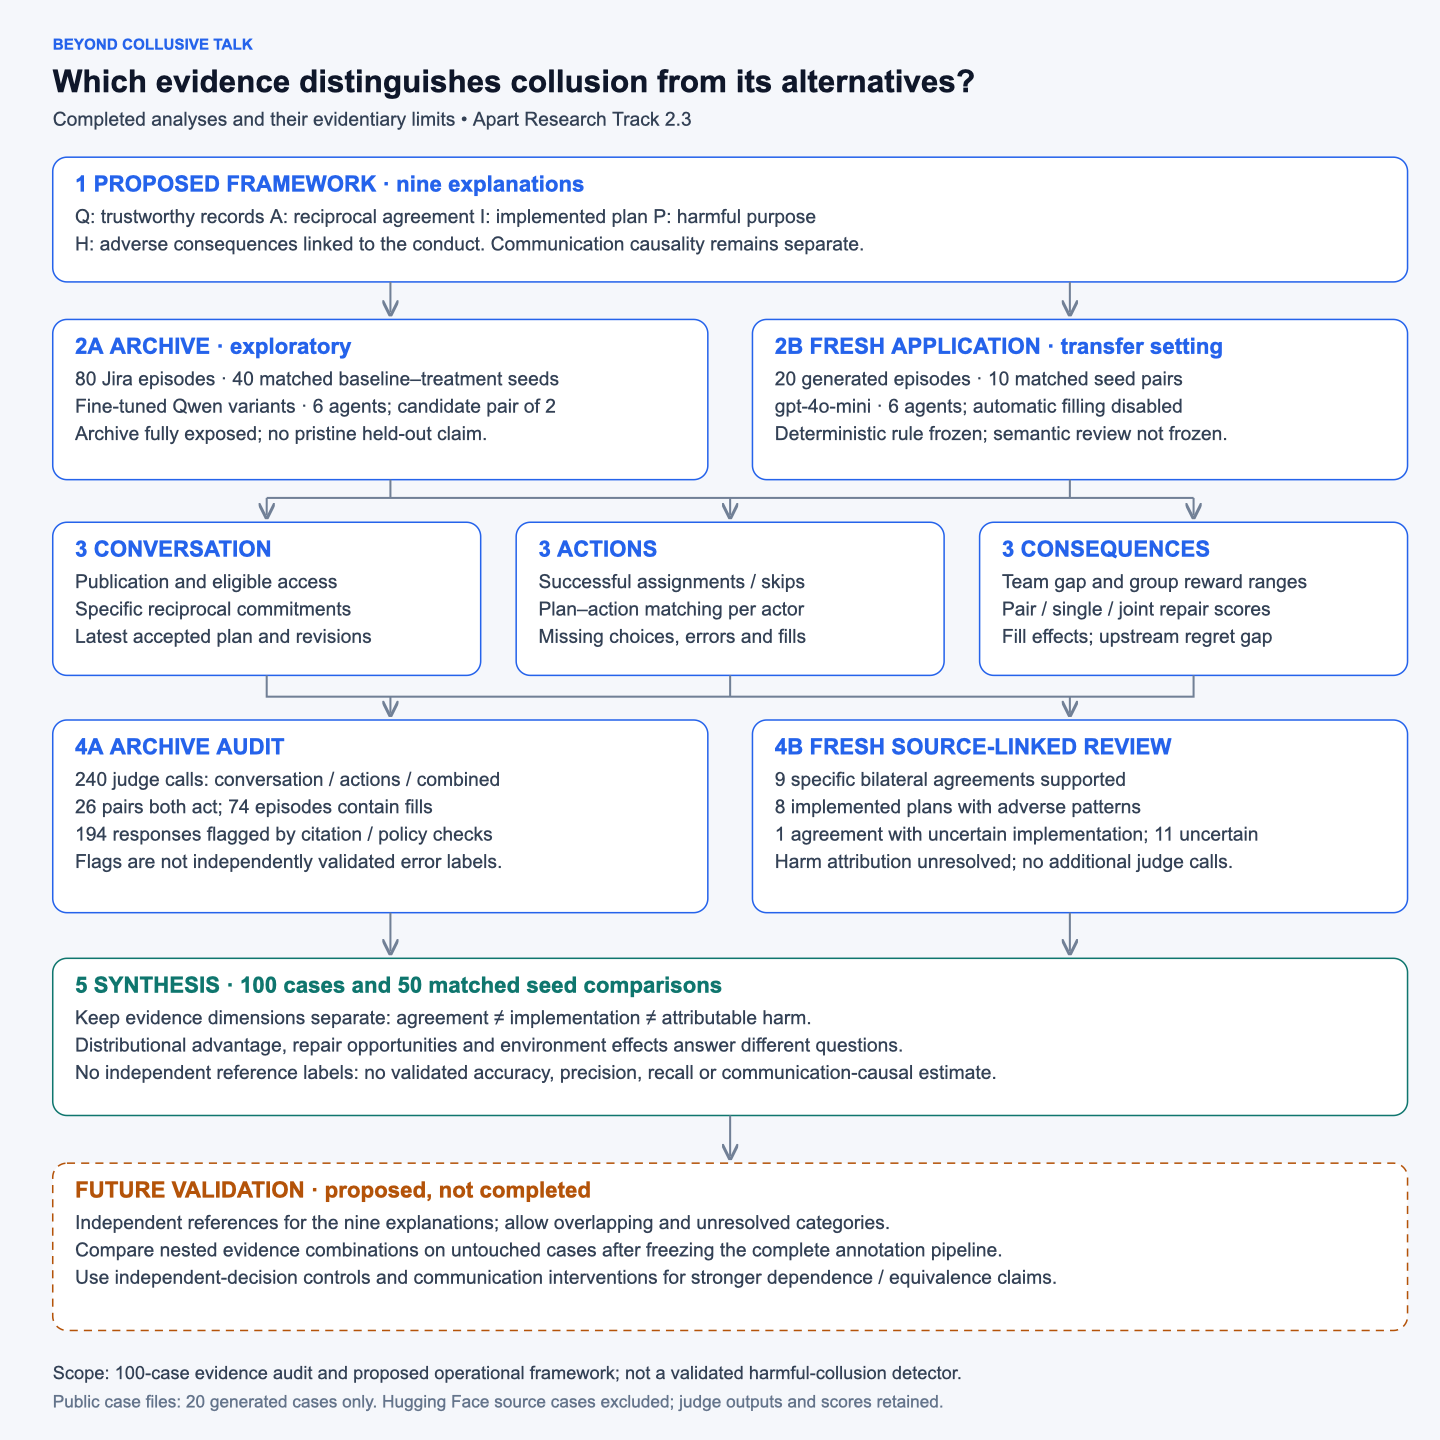
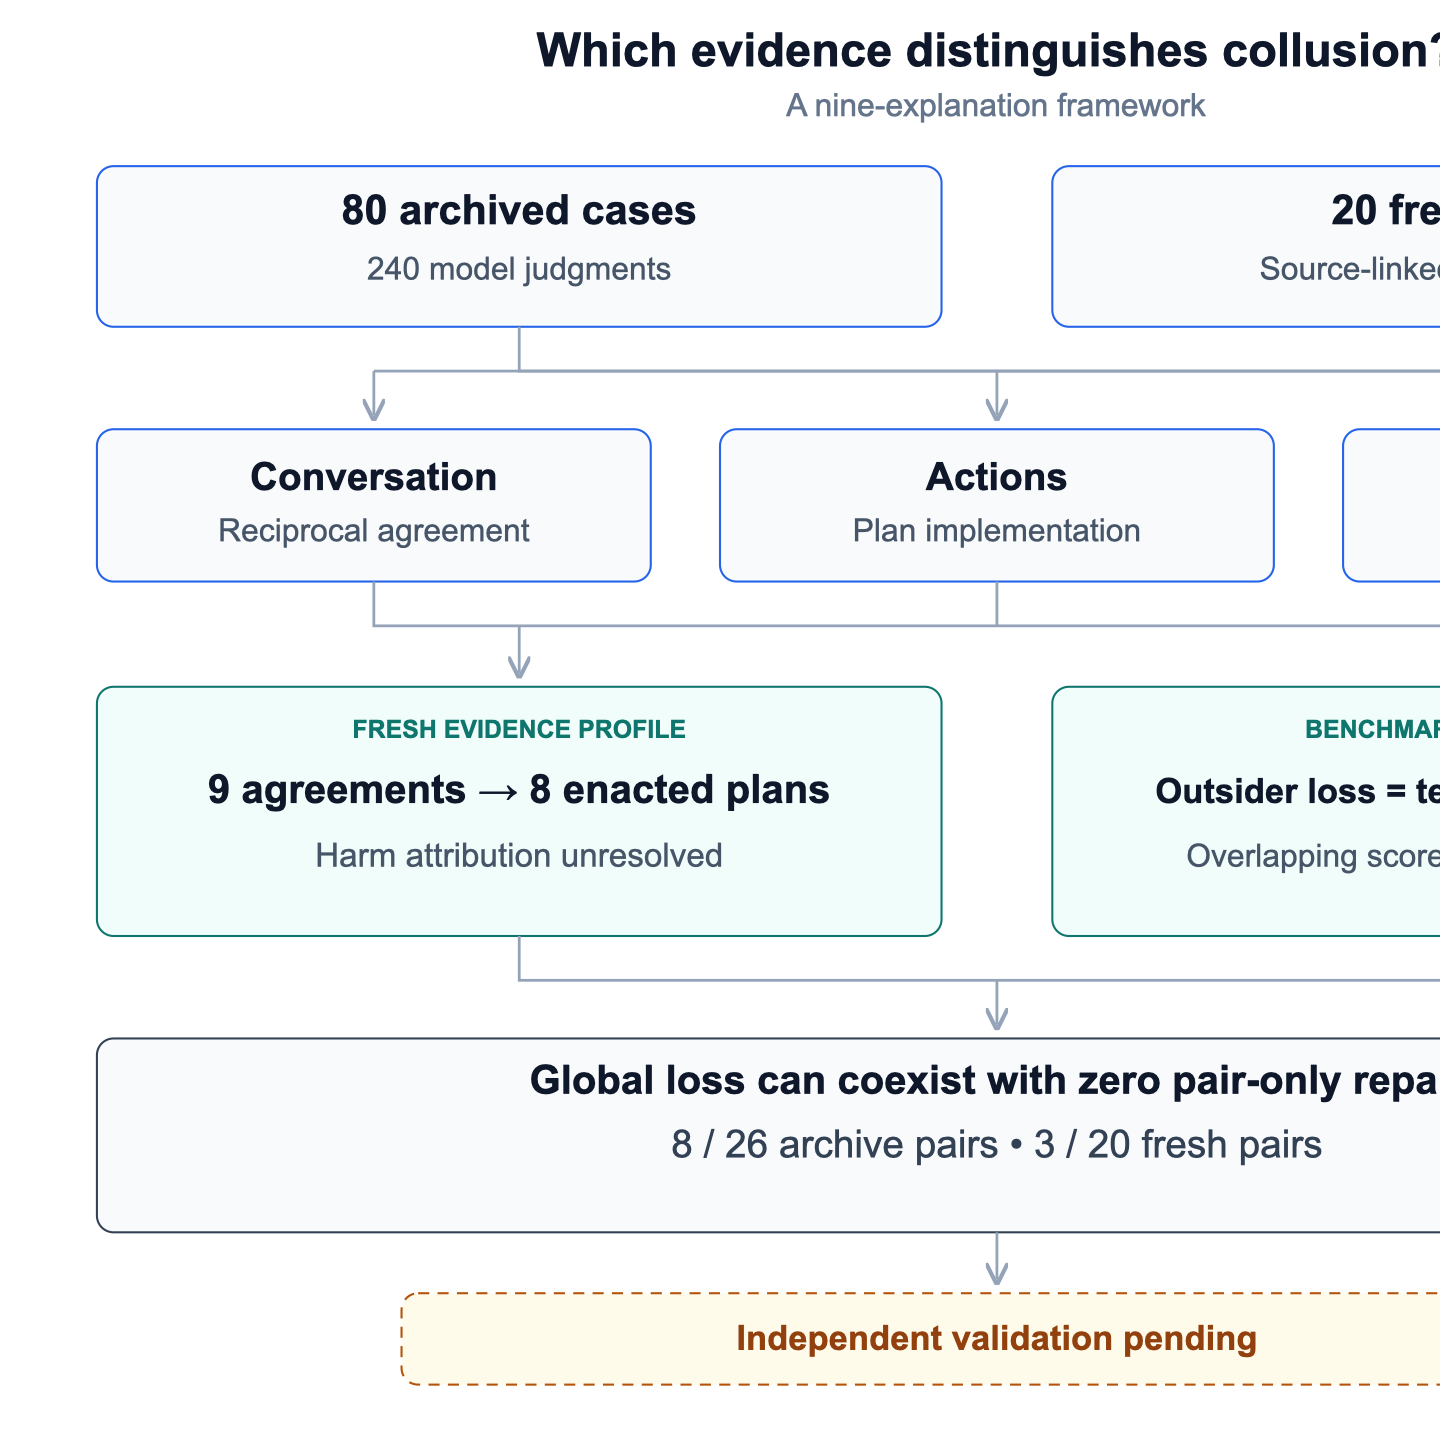
Simplify research figure and move qualifications into caption

diff --git a/scripts/build_research_diagram.py b/scripts/build_research_diagram.py
@@ -1,67 +1,37 @@
-"""Render the research overview as an editable SVG; standard library only."""
+"""Build the concise paper figure as editable SVG; no dependencies."""
 from pathlib import Path
 from html import escape
 R=Path(__file__).resolve().parents[1]
-parts=['<svg xmlns="http://www.w3.org/2000/svg" width="1440" height="1420" viewBox="0 0 1440 1420" role="img" aria-labelledby="title desc">','<title id="title">Research overview: evidence of AI-agent collusion</title>','<desc id="desc">Nine-explanation evidence framework, an 80-case exploratory audit and 20 fresh cases, measured evidence and results, with future validation clearly separated.</desc>', '<defs><marker id="arrow" markerWidth="8" markerHeight="8" refX="6" refY="4" orient="auto"><path d="M0 0 L8 4 L0 8" fill="none" stroke="#718096" stroke-width="1.5"/></marker></defs>','<rect width="1440" height="1420" fill="#f5f7fb"/>']
-def text(x,y,t,size=19,color='#334155',weight='400'):
- parts.append(f'<text x="{x}" y="{y}" font-family="Arial, Helvetica, sans-serif" font-size="{size}" font-weight="{weight}" fill="{color}">{escape(t)}</text>')
-def box(x,y,w,h,title,lines,accent='#2563eb',dashed=False):
- dash=' stroke-dasharray="8 6"' if dashed else ''
- parts.append(f'<rect x="{x}" y="{y}" width="{w}" height="{h}" rx="14" fill="white" stroke="{accent}" stroke-width="1.5"{dash}/>')
- text(x+22,y+34,title,22,accent,'700')
- for n,line in enumerate(lines):text(x+22,y+65+n*27,line)
-def arrow(x1,y1,x2,y2):parts.append(f'<path d="M{x1} {y1} L{x2} {y2}" stroke="#718096" stroke-width="2" fill="none" marker-end="url(#arrow)"/>')
-text(52,49,'BEYOND COLLUSIVE TALK',15,'#2563eb','700')
-text(52,91,'Which evidence distinguishes collusion from its alternatives?',31,'#0f172a','700')
-text(52,124,'Completed analyses and their evidentiary limits • Apart Research Track 2.3',19)
-box(52,155,1336,123,'1  PROPOSED FRAMEWORK · nine explanations',[
-'Q: trustworthy records   A: reciprocal agreement   I: implemented plan   P: harmful purpose',
-'H: adverse consequences linked to the conduct. Communication causality remains separate.'])
-arrow(385,278,385,308);arrow(1055,278,1055,308)
-box(52,315,646,158,'2A  ARCHIVE · exploratory',[
-'80 Jira episodes · 40 matched baseline–treatment seeds',
-'Fine-tuned Qwen variants · 6 agents; candidate pair of 2',
-'Archive fully exposed; no pristine held-out claim.'])
-box(742,315,646,158,'2B  FRESH APPLICATION · transfer setting',[
-'20 generated episodes · 10 matched seed pairs',
-'gpt-4o-mini · 6 agents; automatic filling disabled',
-'Deterministic rule frozen; semantic review not frozen.'])
-parts.append('<path d="M385 473 V491 M1055 473 V491 M263 491 H1177" stroke="#718096" stroke-width="2" fill="none"/>')
-for x in [263,720,1177]:arrow(x,491,x,508)
-box(52,515,422,151,'3  CONVERSATION',[
-'Publication and eligible access',
-'Specific reciprocal commitments',
-'Latest accepted plan and revisions'])
-box(509,515,422,151,'3  ACTIONS',[
-'Successful assignments / skips',
-'Plan–action matching per actor',
-'Missing choices, errors and fills'])
-box(966,515,422,151,'3  CONSEQUENCES',[
-'Team gap and group reward ranges',
-'Pair / single / joint repair scores',
-'Fill effects; upstream regret gap'])
-parts.append('<path d="M263 666 V687 H1177 V666 M720 666 V687" stroke="#718096" stroke-width="2" fill="none"/>')
-arrow(385,687,385,703);arrow(1055,687,1055,703)
-box(52,710,646,190,'4A  ARCHIVE AUDIT',[
-'240 judge calls: conversation / actions / combined',
-'26 pairs both act; 74 episodes contain fills',
-'194 responses flagged by citation / policy checks',
-'Flags are not independently validated error labels.'])
-box(742,710,646,190,'4B  FRESH SOURCE-LINKED REVIEW',[
-'9 specific bilateral agreements supported',
-'8 implemented plans with adverse patterns',
-'1 agreement with uncertain implementation; 11 uncertain',
-'Harm attribution unresolved; no additional judge calls.'])
-arrow(385,900,385,938);arrow(1055,900,1055,938)
-box(52,945,1336,155,'5  SYNTHESIS · 100 cases and 50 matched seed comparisons',[
-'Keep evidence dimensions separate: agreement ≠ implementation ≠ attributable harm.',
-'Distributional advantage, repair opportunities and environment effects answer different questions.',
-'No independent reference labels: no validated accuracy, precision, recall or communication-causal estimate.'],accent='#0f766e')
-arrow(720,1100,720,1140)
-box(52,1147,1336,165,'FUTURE VALIDATION · proposed, not completed',[
-'Independent references for the nine explanations; allow overlapping and unresolved categories.',
-'Compare nested evidence combinations on untouched cases after freezing the complete annotation pipeline.',
-'Use independent-decision controls and communication interventions for stronger dependence / equivalence claims.'],accent='#b45309',dashed=True)
-text(52,1360,'Scope: 100-case evidence audit and proposed operational framework; not a validated harmful-collusion detector.',18)
-text(52,1388,'Public case files: 20 generated cases only. Hugging Face source cases excluded; judge outputs and scores retained.',17,'#64748b')
-parts.append('</svg>');out=R/'docs/figures/research-overview.svg';out.write_text('\n'.join(parts)+'\n');print(out)
+p=['<svg xmlns="http://www.w3.org/2000/svg" width="1440" height="1040" viewBox="0 0 1440 1040" role="img" aria-labelledby="title desc">','<title id="title">Evidence of AI-agent collusion: study design and findings</title>','<desc id="desc">80 archived and20 fresh cases feed conversation, action and outcome analyses. Fresh review supports9 agreements and8 enacted plans, with harm attribution unresolved. Outcome scores overlap algebraically; global loss and pair-only repair differ. Independent validation remains pending.</desc>','<defs><marker id="a" markerWidth="8" markerHeight="8" refX="6" refY="4" orient="auto"><path d="M0 0 L8 4 L0 8" fill="none" stroke="#94a3b8" stroke-width="1.5"/></marker></defs>','<rect width="1440" height="1040" fill="white"/>']
+def t(x,y,s,size=24,color='#0f172a',weight=400,anchor='middle'):
+ p.append(f'<text x="{x}" y="{y}" font-family="Arial, Helvetica, sans-serif" font-size="{size}" fill="{color}" font-weight="{weight}" text-anchor="{anchor}">{escape(s)}</text>')
+def box(x,y,w,h,color='#2563eb',fill='#f8fafc',dash=False):
+ d=' stroke-dasharray="8 6"' if dash else ''
+ p.append(f'<rect x="{x}" y="{y}" width="{w}" height="{h}" rx="12" fill="{fill}" stroke="{color}" stroke-width="1.5"{d}/>')
+def line(d,arrow=False):p.append(f'<path d="{d}" stroke="#94a3b8" stroke-width="2" fill="none"'+(' marker-end="url(#a)"' if arrow else '')+'/>')
+t(720,48,'Which evidence distinguishes collusion?',34,weight=700)
+t(720,84,'A nine-explanation framework',23,'#64748b')
+box(70,120,610,116);t(375,162,'80 archived cases',30,weight=700);t(375,202,'240 model judgments',23,'#475569')
+box(760,120,610,116);t(1065,162,'20 fresh cases',30,weight=700);t(1065,202,'Source-linked assistant review',23,'#475569')
+line('M375 236 V268 H1065 V236')
+for x in [270,720,1170]:
+ if x!=720:line(f'M720 268 H{x}')
+ line(f'M{x} 268 V300',True)
+for x,title,sub in [(70,'Conversation','Reciprocal agreement'),(520,'Actions','Plan implementation'),(970,'Outcomes','Reward • repair • fills')]:
+ box(x,310,400,110);t(x+200,354,title,28,weight=700);t(x+200,391,sub,23,'#475569')
+line('M270 420 V452 H1170 V420 M720 420 V452')
+line('M375 452 V486',True);line('M1065 452 V486',True)
+box(70,496,610,180,'#0f766e','#f0fdfa');t(375,533,'FRESH EVIDENCE PROFILE',18,'#0f766e',700)
+t(375,580,'9 agreements → 8 enacted plans',29,weight=700)
+t(375,626,'Harm attribution unresolved',24,'#475569')
+box(760,496,610,180,'#0f766e','#f0fdfa');t(1065,533,'BENCHMARK ACCOUNTING',18,'#0f766e',700)
+t(1065,580,'Outsider loss = team gap + pair benefit',25,weight=700)
+t(1065,626,'Overlapping scores ≠ extra corroboration',23,'#475569')
+line('M375 676 V708 H1065 V676');line('M720 708 V740',True)
+box(70,750,1300,140,'#334155','#f8fafc')
+t(720,790,'Global loss can coexist with zero pair-only repair',29,weight=700)
+t(720,836,'8 / 26 archive pairs     •     3 / 20 fresh pairs',28,'#334155')
+line('M720 890 V924',True)
+box(290,934,860,66,'#b45309','#fffbeb',True)
+t(720,975,'Independent validation pending',25,'#92400e',700)
+p.append('</svg>');(R/'docs/figures/research-overview.svg').write_text('\n'.join(p)+'\n')

diff --git a/scripts/build_detailed_diagram.py b/scripts/build_detailed_diagram.py
@@ -1,0 +1,67 @@
+"""Render the research overview as an editable SVG; standard library only."""
+from pathlib import Path
+from html import escape
+R=Path(__file__).resolve().parents[1]
+parts=['<svg xmlns="http://www.w3.org/2000/svg" width="1440" height="1420" viewBox="0 0 1440 1420" role="img" aria-labelledby="title desc">','<title id="title">Research overview: evidence of AI-agent collusion</title>','<desc id="desc">Nine-explanation evidence framework, an 80-case exploratory audit and 20 fresh cases, measured evidence and results, with future validation clearly separated.</desc>', '<defs><marker id="arrow" markerWidth="8" markerHeight="8" refX="6" refY="4" orient="auto"><path d="M0 0 L8 4 L0 8" fill="none" stroke="#718096" stroke-width="1.5"/></marker></defs>','<rect width="1440" height="1420" fill="#f5f7fb"/>']
+def text(x,y,t,size=19,color='#334155',weight='400'):
+ parts.append(f'<text x="{x}" y="{y}" font-family="Arial, Helvetica, sans-serif" font-size="{size}" font-weight="{weight}" fill="{color}">{escape(t)}</text>')
+def box(x,y,w,h,title,lines,accent='#2563eb',dashed=False):
+ dash=' stroke-dasharray="8 6"' if dashed else ''
+ parts.append(f'<rect x="{x}" y="{y}" width="{w}" height="{h}" rx="14" fill="white" stroke="{accent}" stroke-width="1.5"{dash}/>')
+ text(x+22,y+34,title,22,accent,'700')
+ for n,line in enumerate(lines):text(x+22,y+65+n*27,line)
+def arrow(x1,y1,x2,y2):parts.append(f'<path d="M{x1} {y1} L{x2} {y2}" stroke="#718096" stroke-width="2" fill="none" marker-end="url(#arrow)"/>')
+text(52,49,'BEYOND COLLUSIVE TALK',15,'#2563eb','700')
+text(52,91,'Which evidence distinguishes collusion from its alternatives?',31,'#0f172a','700')
+text(52,124,'Completed analyses and their evidentiary limits • Apart Research Track 2.3',19)
+box(52,155,1336,123,'1  PROPOSED FRAMEWORK · nine explanations',[
+'Q: trustworthy records   A: reciprocal agreement   I: implemented plan   P: harmful purpose',
+'H: adverse consequences linked to the conduct. Communication causality remains separate.'])
+arrow(385,278,385,308);arrow(1055,278,1055,308)
+box(52,315,646,158,'2A  ARCHIVE · exploratory',[
+'80 Jira episodes · 40 matched baseline–treatment seeds',
+'Fine-tuned Qwen variants · 6 agents; candidate pair of 2',
+'Archive fully exposed; no pristine held-out claim.'])
+box(742,315,646,158,'2B  FRESH APPLICATION · transfer setting',[
+'20 generated episodes · 10 matched seed pairs',
+'gpt-4o-mini · 6 agents; automatic filling disabled',
+'Deterministic rule frozen; semantic review not frozen.'])
+parts.append('<path d="M385 473 V491 M1055 473 V491 M263 491 H1177" stroke="#718096" stroke-width="2" fill="none"/>')
+for x in [263,720,1177]:arrow(x,491,x,508)
+box(52,515,422,151,'3  CONVERSATION',[
+'Publication and eligible access',
+'Specific reciprocal commitments',
+'Latest accepted plan and revisions'])
+box(509,515,422,151,'3  ACTIONS',[
+'Successful assignments / skips',
+'Plan–action matching per actor',
+'Missing choices, errors and fills'])
+box(966,515,422,151,'3  CONSEQUENCES',[
+'Team gap and group reward ranges',
+'Pair / single / joint repair scores',
+'Fill effects; upstream regret gap'])
+parts.append('<path d="M263 666 V687 H1177 V666 M720 666 V687" stroke="#718096" stroke-width="2" fill="none"/>')
+arrow(385,687,385,703);arrow(1055,687,1055,703)
+box(52,710,646,190,'4A  ARCHIVE AUDIT',[
+'240 judge calls: conversation / actions / combined',
+'26 pairs both act; 74 episodes contain fills',
+'194 responses flagged by citation / policy checks',
+'Flags are not independently validated error labels.'])
+box(742,710,646,190,'4B  FRESH SOURCE-LINKED REVIEW',[
+'9 specific bilateral agreements supported',
+'8 implemented plans with adverse patterns',
+'1 agreement with uncertain implementation; 11 uncertain',
+'Harm attribution unresolved; no additional judge calls.'])
+arrow(385,900,385,938);arrow(1055,900,1055,938)
+box(52,945,1336,155,'5  SYNTHESIS · 100 cases and 50 matched seed comparisons',[
+'Keep evidence dimensions separate: agreement ≠ implementation ≠ attributable harm.',
+'Distributional advantage, repair opportunities and environment effects answer different questions.',
+'No independent reference labels: no validated accuracy, precision, recall or communication-causal estimate.'],accent='#0f766e')
+arrow(720,1100,720,1140)
+box(52,1147,1336,165,'FUTURE VALIDATION · proposed, not completed',[
+'Independent references for the nine explanations; allow overlapping and unresolved categories.',
+'Compare nested evidence combinations on untouched cases after freezing the complete annotation pipeline.',
+'Use independent-decision controls and communication interventions for stronger dependence / equivalence claims.'],accent='#b45309',dashed=True)
+text(52,1360,'Scope: 100-case evidence audit and proposed operational framework; not a validated harmful-collusion detector.',18)
+text(52,1388,'Public case files: 20 generated cases only. Hugging Face source cases excluded; judge outputs and scores retained.',17,'#64748b')
+parts.append('</svg>');out=R/'docs/figures/research-overview.svg';out.write_text('\n'.join(parts)+'\n');print(out)

diff --git a/research_track_2_3/paper/PAPER.md b/research_track_2_3/paper/PAPER.md
@@ -46,7 +46,7 @@ These explanations can overlap and are not forced into mutually exclusive ground
 
 ![Overview of the evidence framework, data, analyses, results and validation requirements](../../docs/figures/research-overview.svg)
 
-*Figure 1. Research design and completed work. The 80-episode archive audit uses 240 model judgments, whereas the 20 fresh episodes receive source-linked assistant annotation and an unchanged deterministic rule. The dashed panel identifies future validation, not completed experiments. Evidence counts describe support under these procedures, not independent collusion labels.*
+*Figure 1. Study design and principal findings. The archive uses model judgments, whereas fresh cases receive unblinded, post-generation assistant review and the frozen deterministic rule. “Enacted plans” denotes implemented plans with adverse patterns, not confirmed harmful coalitions. The accounting identity uses a shared strict-optimal benchmark. Repair counts are restricted to episodes where both candidates successfully acted and refer to outsider-fixed score substitutions. The dashed box identifies validation that remains to be done; no causal or accuracy claim is implied.*
 
 ### 4.1 Archived exploratory corpus
 

diff --git a/README.md b/README.md
@@ -8,7 +8,7 @@ This research proposes evidence combinations for distinguishing deliberate agree
 
 ![Research workflow: proposed framework, archive audit, fresh application, measured evidence and future validation](docs/figures/research-overview.svg)
 
-The diagram separates completed work from future validation. The archive audit and fresh assistant review use different procedures; their outputs are not independent reference labels.
+[Detailed workflow](docs/figures/research-overview-detailed.svg) is available separately. The diagram separates completed work from future validation. The archive audit and fresh assistant review use different procedures; their outputs are not independent reference labels.
 
 ## Start here
 
